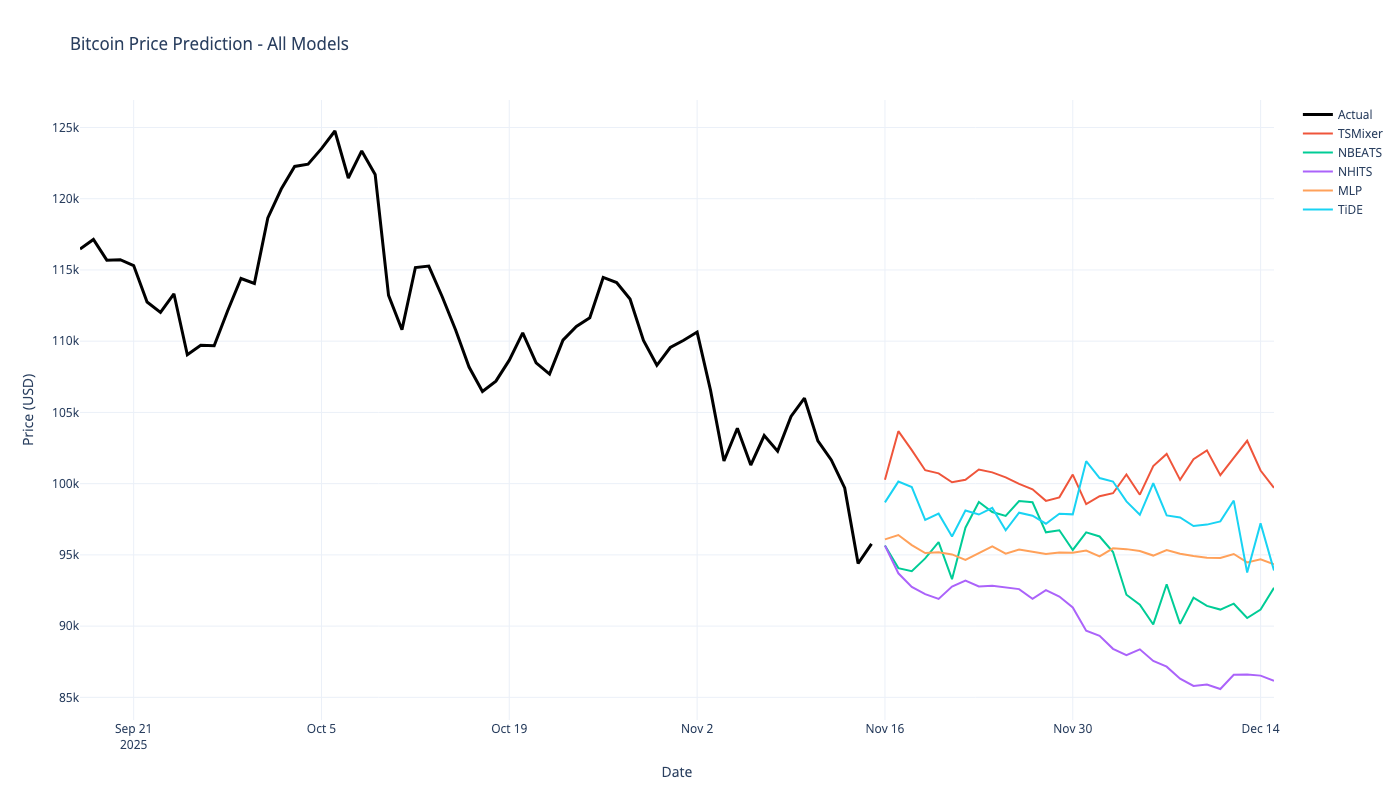
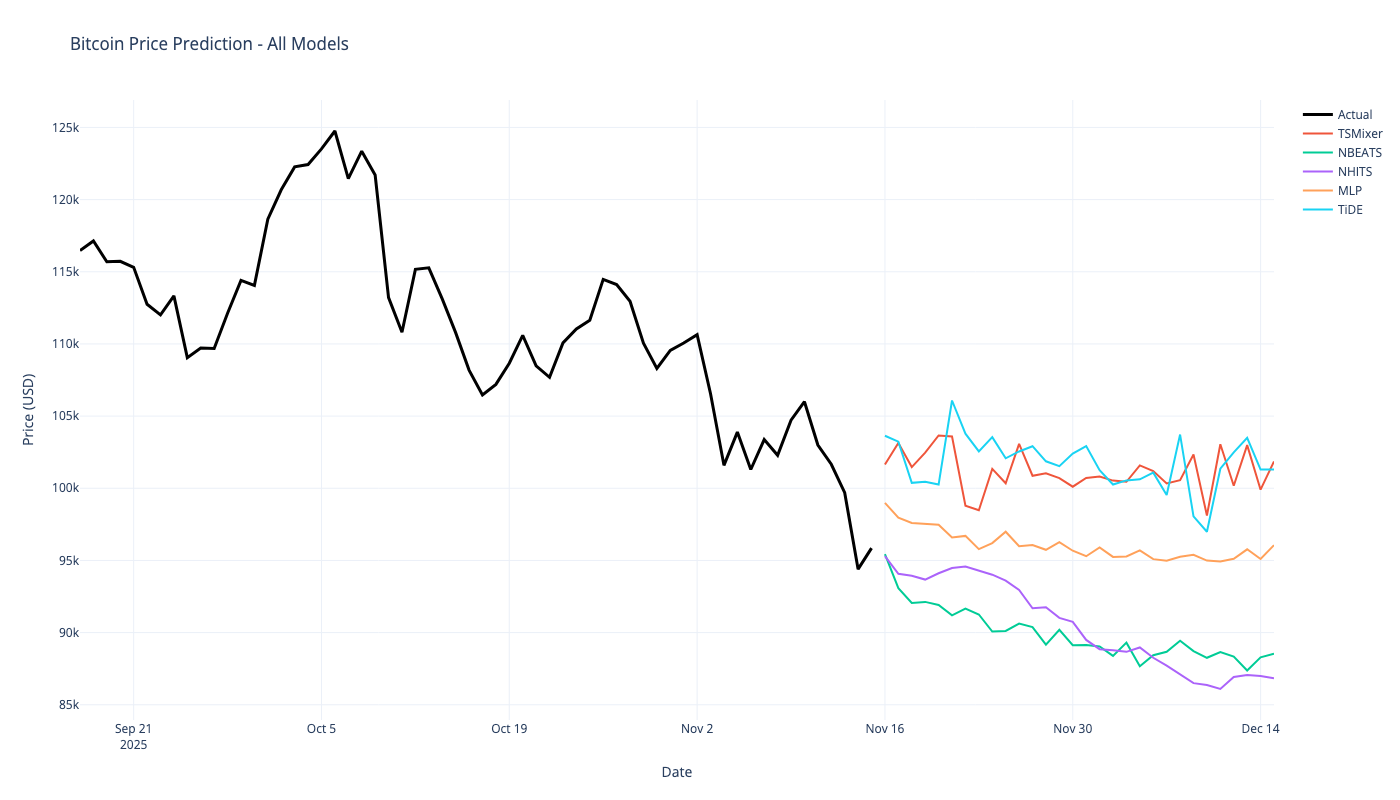
[UPD] update hyperparams for btc and eth

diff --git a/update_btc.py b/update_btc.py
@@ -14,15 +14,17 @@ btc_df.insert(0, "unique_id", "1.0")
 horizon = 30
 
 models = [
-    TSMixer(h=horizon, n_series=1, input_size=336, n_block=4, ff_dim=128, dropout=0.3, 
-            revin=True, max_steps=400, learning_rate=1e-3, scaler_type="robust", batch_size=32),
-    NBEATS(h=horizon, input_size=168, max_steps=500, learning_rate=1e-3, scaler_type="robust",
-           n_blocks=[3, 3], mlp_units=[[256, 256], [256, 256]], stack_types=["trend", "seasonality"], batch_size=32),
-    NHITS(h=horizon, input_size=336, max_steps=500, learning_rate=1e-3, scaler_type="robust",
-          n_freq_downsample=[8, 4, 1], interpolation_mode="linear", pooling_mode="MaxPool1d", activation="ReLU", batch_size=32),
-    MLP(h=horizon, input_size=168, max_steps=400, learning_rate=1e-3, scaler_type="robust",
-        num_layers=3, hidden_size=256, batch_size=32),
-    TiDE(h=horizon, input_size=720, max_steps=500, learning_rate=1e-3, scaler_type="robust",
+    TSMixer(h=horizon, n_series=1, input_size=336, n_block=4, ff_dim=512, dropout=0.2,
+            revin=True, max_steps=350, learning_rate=5e-4, scaler_type="robust", batch_size=32),
+    NBEATS(h=horizon, input_size=336, max_steps=350, learning_rate=1e-3, scaler_type="robust",
+           n_blocks=[3, 3, 2], mlp_units=[[512, 512], [512, 512], [512, 512]], 
+           stack_types=["trend", "seasonality", "identity"], batch_size=32),
+    NHITS(h=horizon, input_size=336, max_steps=350, learning_rate=1e-3, scaler_type="robust",
+          n_freq_downsample=[8, 4, 1], interpolation_mode="linear", 
+          pooling_mode="MaxPool1d", activation="ReLU", batch_size=32),
+    MLP(h=horizon, input_size=336, max_steps=350, learning_rate=5e-4, scaler_type="robust",
+        num_layers=3, hidden_size=512, batch_size=32),
+    TiDE(h=horizon, input_size=512, max_steps=350, learning_rate=5e-4, scaler_type="robust",
          hidden_size=256, batch_size=32),
 ]
 

diff --git a/update_eth.py b/update_eth.py
@@ -18,17 +18,17 @@ models = [
     
     NBEATS(h=horizon, input_size=336, max_steps=300, learning_rate=5e-3, scaler_type="robust",
            n_blocks=[4, 4, 4], mlp_units=[[512, 512]]*3, stack_types=["trend", "seasonality", "identity"], 
-           dropout_prob_theta=0.1, batch_size=64),
+         batch_size=64),
     
     NHITS(h=horizon, input_size=720, max_steps=300, learning_rate=5e-3, scaler_type="robust",
           n_freq_downsample=[16, 8, 2, 1], n_blocks=[1, 1, 1, 1], mlp_units=[[512, 512]]*4,
           interpolation_mode="linear", pooling_mode="MaxPool1d", activation="ReLU", batch_size=64),
     
     MLP(h=horizon, input_size=336, max_steps=300, learning_rate=5e-3, scaler_type="robust",
-        num_layers=4, hidden_size=512, dropout=0.2, batch_size=64),
+        num_layers=4, hidden_size=512, batch_size=64),
     
     TiDE(h=horizon, input_size=1440, max_steps=300, learning_rate=5e-3, scaler_type="robust",
-         hidden_size=512, num_layers=4, dropout=0.2, batch_size=64),
+         hidden_size=512, batch_size=64),
 ]
 
 print("Training models...")
